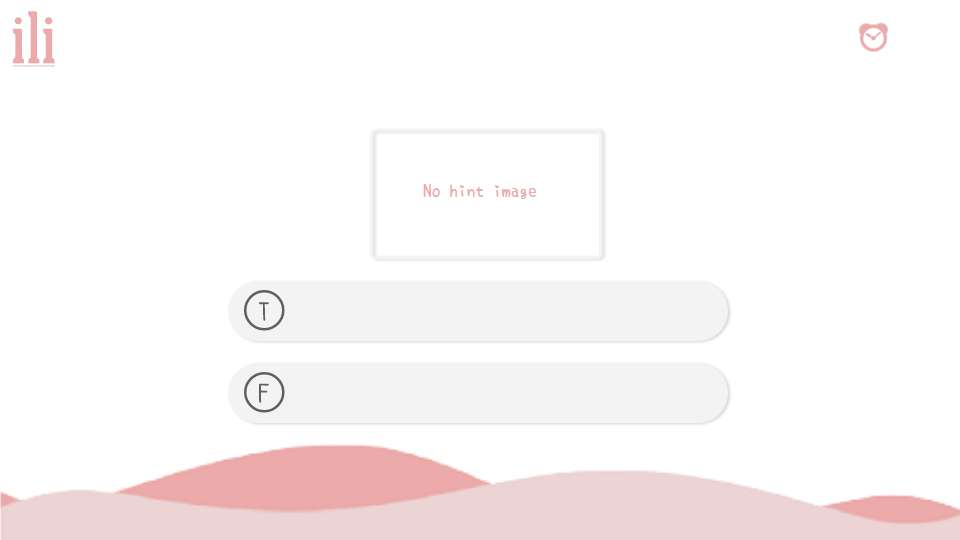
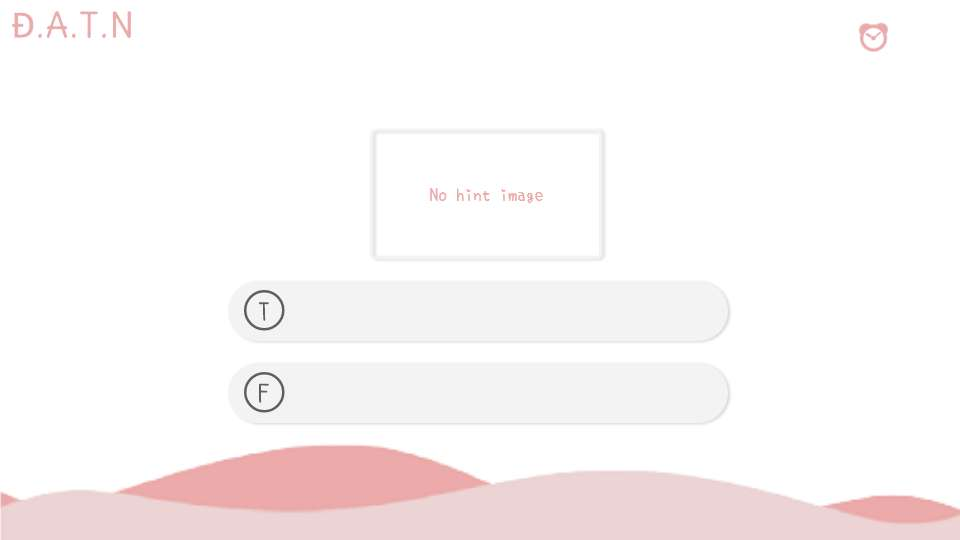
update layer templates

Changed region(s): [[0.0, 0.0, 0.1562, 0.1185], [0.4375, 0.3259, 0.5625, 0.3852]]

diff --git a/src/util/canvas/screen/question_tf_end.js b/src/util/canvas/screen/question_tf_end.js
@@ -39,7 +39,7 @@ const drawQuestionTFEnd = async (canvas, bg, data, genImg = false) => {
 	let w = canvas.width 
 	let h = canvas.height
 
-	let {round_index, time, question, userAnswers, isLoading} = data
+	let {round_index, time, question, userAnswers, isLoading, answer_counts} = data
 	let {title, answers, correct_answer, imageImg} = question
 	time = time + 's'
 	ctx.clearRect(0, 0, w, h)
@@ -76,6 +76,13 @@ const drawQuestionTFEnd = async (canvas, bg, data, genImg = false) => {
     answers.forEach((answer, index) => {
         ctx.fillStyle =  correct_answer == index ? '#ECAAAA' : '#707070'
         ctx.fillText(answer, cv(610), cv(620 + 170 * index));
+    })
+
+	ctx.font = `${cv(42)}px SetoFont-SP`;
+    answer_counts.forEach((item, index) => {
+		var label = item.count + ' players'
+        ctx.fillStyle = correct_answer == index ? '#ECAAAA' : '#707070'
+        ctx.fillText(label , cv(1240), cv(620 + 170 * index));
     })
 
 

diff --git a/src/util/canvas/index.js b/src/util/canvas/index.js
@@ -142,7 +142,7 @@ class CanvasHandler {
             this.sample_avatar = await loadImage(__dirname + '/layer/avatar.jpg')
             registerFont('./src/util/canvas/setofont.woff', { family: 'SetoFont-SP', weight: '100', style: 'Not-Rotated' })
             await Promise.all(Object.values(SCREENS).map(async (screen) => {
-                var path =`${__dirname}/layer/${EXTENSION_TEMPLATE}/${screen.templateName}.${EXTENSION_TEMPLATE}` ;
+                var path =`${__dirname}/layer/${EXTENSION_TEMPLATE}/high/${screen.templateName}.${EXTENSION_TEMPLATE}` ;
                 this.bgs[screen.id] = await loadImage(path) 
             }))
         }

diff --git a/src/util/canvas/screen/waiting.js b/src/util/canvas/screen/waiting.js
@@ -28,7 +28,7 @@ const drawWaiting = async (canvas, bg, data, genImg = false) => {
 
     ctx.fillStyle = '#707070';
     ctx.font = `${cv(80)}px SetoFont-SP`;
-    ctx.fillText(title , cv(1000), cv(180));
+    ctx.fillText(title , cv(1000), cv(350));
     
     ctx.fillStyle = '#ECAAAA';
     ctx.font = `${cv(160)}px SetoFont-SP`;

diff --git a/src/util/canvas/screen/end.js b/src/util/canvas/screen/end.js
@@ -26,7 +26,7 @@ const drawEnd = async (canvas, bg, data, genImg = false) => {
 
     ctx.fillStyle = '#707070';
     ctx.font = `${cv(80)}px SetoFont-SP`;
-    ctx.fillText(title , cv(1000), cv(180));
+    ctx.fillText(title , cv(1000), cv(350));
     
     ctx.fillStyle = '#ECAAAA';
     ctx.font = `${cv(160)}px SetoFont-SP`;
